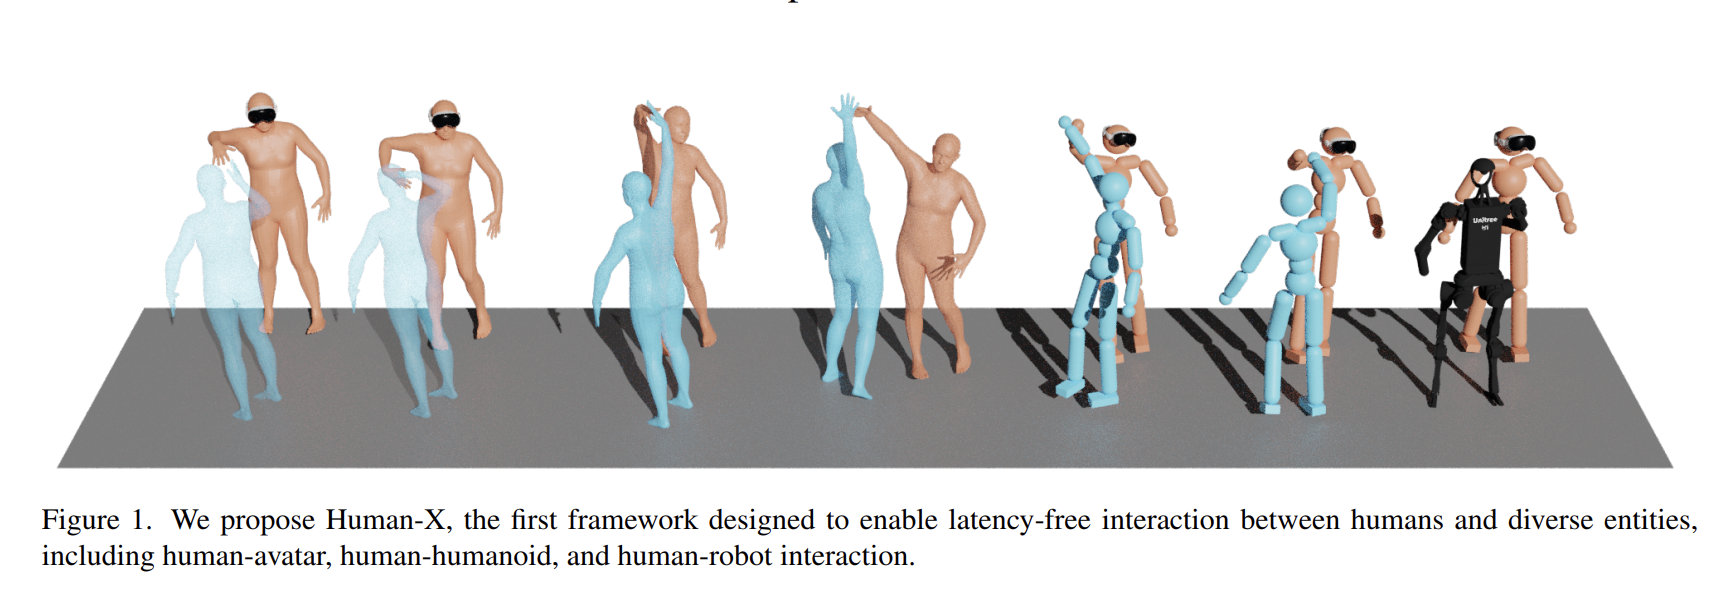
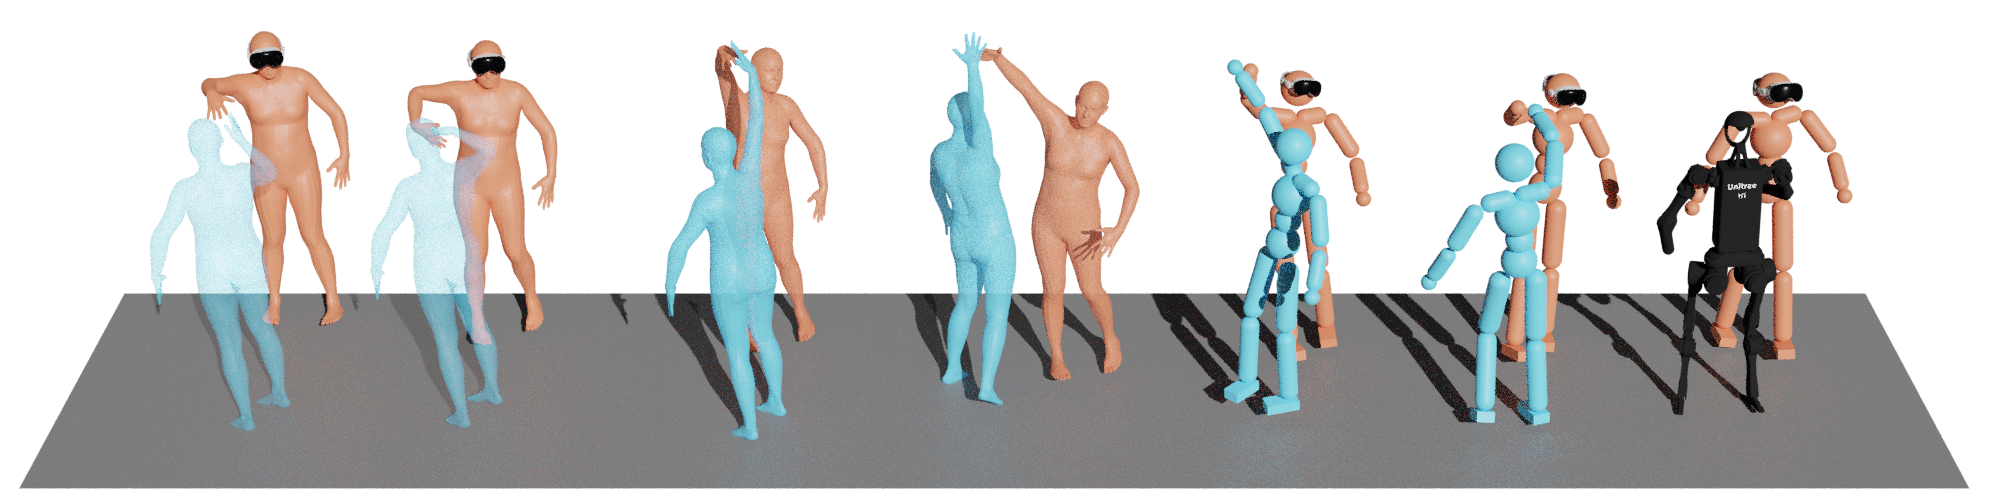
update items

diff --git a/_pages/teaching.md b/_pages/teaching.md
@@ -10,10 +10,10 @@ nav_order: 6
 <ul>
   <li><strong>Teaching Assistant</strong></li>
   <ul>
-    <li>Intro To Programming (CS100), 2023 Spring, ShanghaiTech University, China</li>
-    <li>Computer Vision I (CS172), 2024 Fall, ShanghaiTech University, China</li>
-    <li>Computer Vision II (CS272), 2025 Spring, ShanghaiTech University, China</li>
-    <li>Computer Vision I (CS172), 2026 Spring, ShanghaiTech University, China</li>
+    <li>Intro To Programming (CS100), 2023 Spring, ShanghaiTech University, Worked with <a href="https://xu-lan.com/">Lan Xu</a> and <a href="http://yuexinma.me/">Yuexin Ma</a>. </li>
+    <li>Computer Vision I (CS172), 2024 Fall, ShanghaiTech University, Worked with <a href="https://faculty.sist.shanghaitech.edu.cn/faculty/wangjingya/">Jingya Wang</a> and <a href="https://jiayuan-gu.github.io/">Jiayuan Gu</a>.</li>
+    <li>Computer Vision II (CS272), 2025 Spring, ShanghaiTech University, Worked with <a href="https://faculty.sist.shanghaitech.edu.cn/faculty/wangjingya/">Jingya Wang</a>. </li>
+    <li>Computer Vision I (CS172), 2026 Spring, ShanghaiTech University, Worked with <a href="https://faculty.sist.shanghaitech.edu.cn/faculty/wangjingya/">Jingya Wang</a>.</li>
   </ul>
 
   <li><strong>Workshop Organizer</strong></li>
